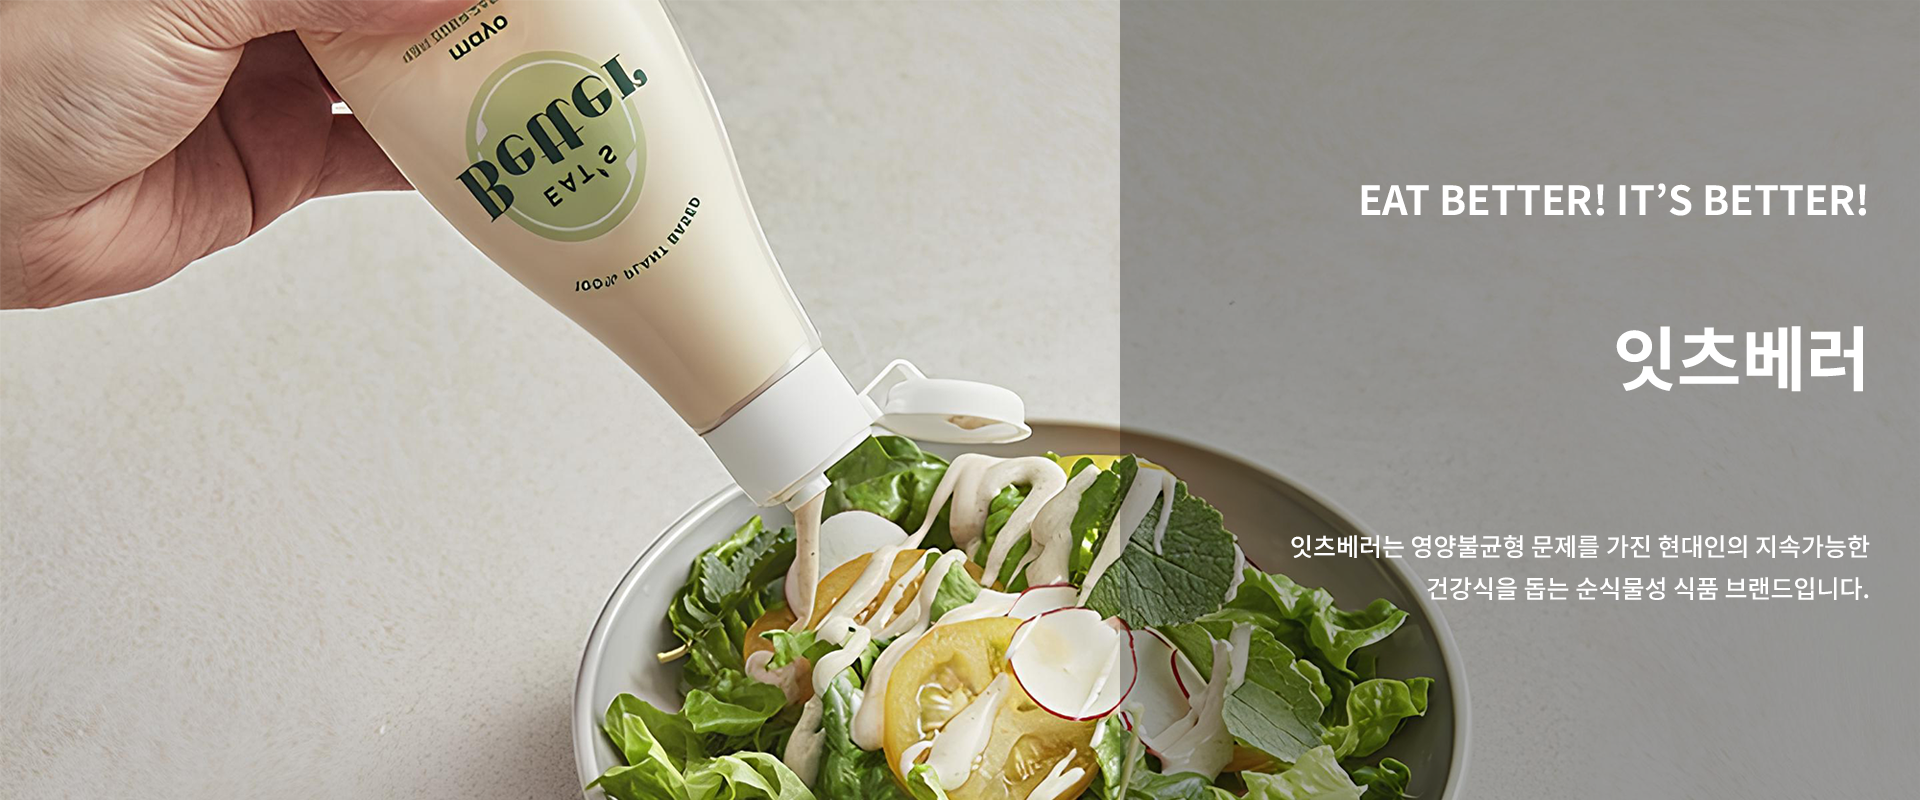
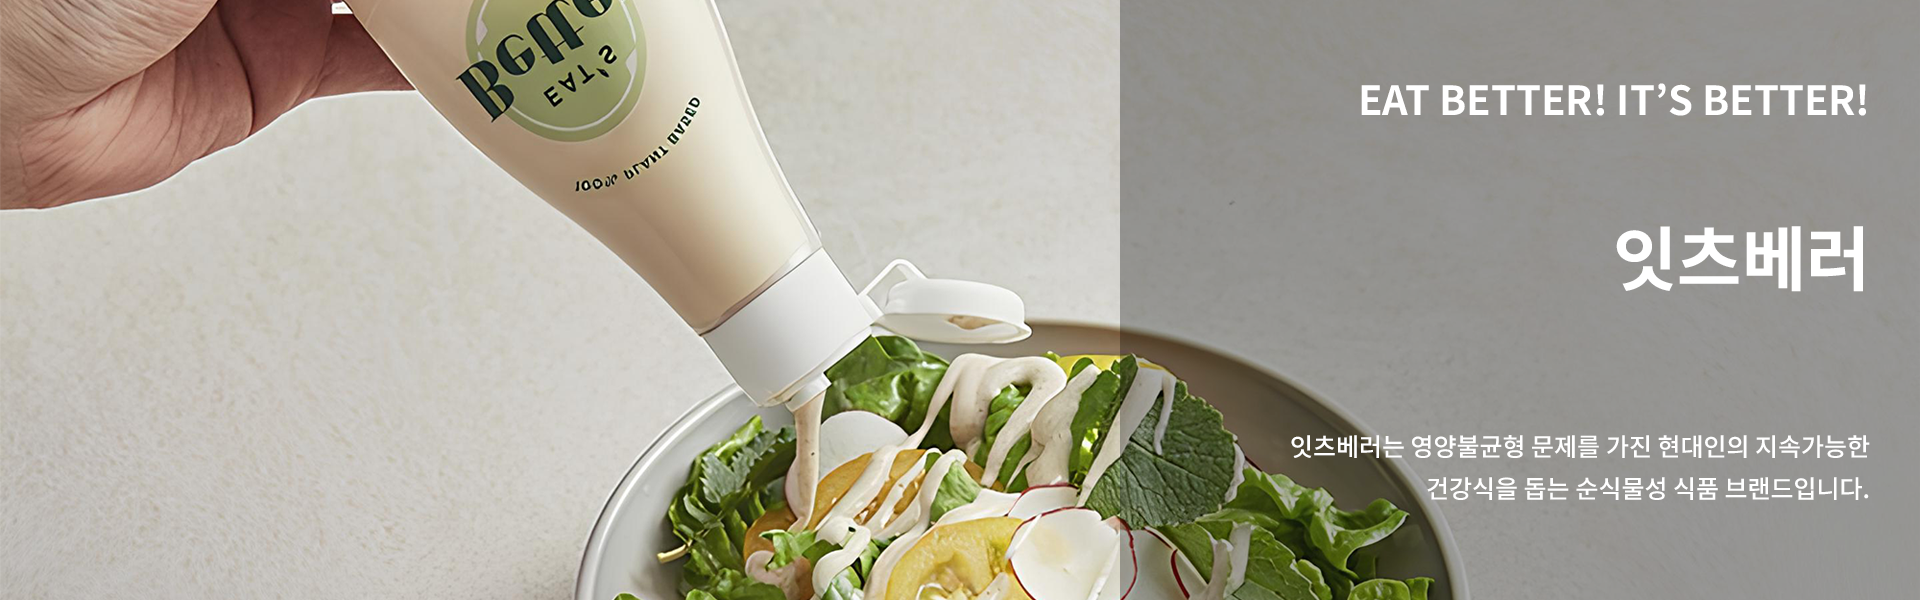
review 반응형 수정 , banner부분 추가

diff --git a/css/index/banner.css b/css/index/banner.css
@@ -1,32 +1,77 @@
 @charset "utf-8";
-.banner{
-    position: relative;
-    width: 100%;
-    /* padding-top: 110px; */
-    z-index: 1 !important;
+.banner {
+  position: relative;
+  width: 100%;
+  /* padding-top: 110px; */
+  z-index: 1 !important;
 }
-.sw-banner{
-    position: relative;
-    z-index: 1 !important;
-    width: 100%;
+.sw-banner {
+  position: relative;
+  z-index: 1 !important;
+  width: 100%;
 }
-.sw-banner a{
-    width: 100%;
-    display: block;
-    position: relative;
-    z-index: 1 !important;
+.sw-banner a {
+  width: 100%;
+  display: block;
+  position: relative;
+  z-index: 1 !important;
 }
-.sw-banner a img{
-    width: 100%;
-    display: block;
-    position: relative;
-    z-index: 1 !important;
+.sw-banner a img {
+  width: 100%;
+  display: block;
+  position: relative;
+  z-index: 1 !important;
 }
-.sw-banner .swiper-slide{
-    position: relative;
-    z-index: 1 !important;
+.sw-banner .swiper-slide {
+  position: relative;
+  z-index: 1 !important;
 }
 
-  .banner.hide{
-    margin-top: 110px;
+.banner.hide {
+  margin-top: 110px;
+}
+
+.mid-banner {
+    width: 100%;
+    aspect-ratio: 1600/484.38;
+    position: relative;
+    display: block;
+    margin-top: 50px;
+  }
+  
+  .mid-banner a {
+    width: calc((100% - 1500px) / 2 + 1500px);
+    height: 100%;
+    left: 0;
+    position: absolute;
+  
+  }
+  .mid-banner a img {
+    width: 100%;
+  }
+  .bottom-banner {
+    width: 100%;
+    aspect-ratio: 1600/484.38;
+    position: relative;
+    display: block;
+  }
+  .bottom-banner a {
+    width: calc((100% - 1500px) / 2 + 1500px);
+    height: 100%;
+    right: 0;
+    position: absolute;
+  }
+  .bottom-banner a img {
+    width: 100%;
+  }
+  @media screen and (max-width:1500px){
+  .mid-banner a , .bottom-banner a{
+    width: 100%;
+  }
+  .mid-banner , .bottom-banner{
+    aspect-ratio: 1400/437.5;
+  }
+  .mid-banner{
+    margin-top: 0;
+  }
   }

diff --git a/css/index/product.css b/css/index/product.css
@@ -1,40 +1,41 @@
 @charset "utf-8";
-.category{
-    padding-top: 50px;
+.category {
+  padding-top: 50px;
 }
-.category .inner{
-    max-width: 1100px;
+.category .inner {
+  max-width: 1100px;
 }
-.category h2{
-    text-align: center;
-    font-size: 40px;
-    font-weight: bold;
-    padding-bottom: 60px;
+.category h2 {
+  text-align: center;
+  font-size: 40px;
+  font-weight: bold;
+  padding-bottom: 60px;
 }
-.category ul{
-    display: flex;
-    justify-content: space-between;
-    padding: 0 20px;
-    flex-wrap: wrap
+.category ul {
+  display: flex;
+  justify-content: space-between;
+  padding: 0 20px;
+  flex-wrap: wrap;
 }
-.category li{
-    width: 18%;
+.category li {
+  width: 18%;
 }
-.category a{
-    width: 100%;
+.category a {
+  width: 100%;
 }
-.category img{
-    width: 100%;
-    border-radius: 50%;
+.category img {
+  width: 100%;
+  border-radius: 50%;
 }
-.category p{
-    text-align: center;
-    margin-top: 15px;
-    font-size: 20px;
-    font-weight: bold;
+.category p {
+  text-align: center;
+  margin-top: 15px;
+  font-size: 20px;
+  font-weight: bold;
 }
-@media screen and (max-width:800px){
-    .category li{
-        width: 40%
-    };
+@media screen and (max-width: 800px) {
+  .category li {
+    width: 45%;
+    padding-bottom: 25px;
+  }
 }

diff --git a/index.html b/index.html
@@ -82,9 +82,9 @@
           <li>
             <p>ABOUT US</p>
             <ul class="mobile-about-us">
-              <li><a href="#">Eats Better</a></li>
-                <li><a href="#">The Plant Eat</a></li>
-                <li><a href="#">Xilk</a></li>
+              <li><a href="eats-better.html">Eats Better</a></li>
+              <li><a href="the-plant-eat-about.html">The Plant Eat</a></li>
+              <li><a href="xilk.html">Xilk</a></li>
             </ul>
           </li>
           <li><a href="products.html">PRODUCTS</a></li>
@@ -146,6 +146,16 @@
               </div>
             </div>
           </div>
+        </div>
+      </section>
+      <section class="mid-banner" data-aos="fade-right" data-aos-offset="300" data-aos-duration="1500">
+        <!-- <div class="inner"> -->
+        <a href="#"><img src="images/banner/eatsbetter.png" alt="가운데배너" /></a>
+        <!-- </div> -->
+      </section>
+      <section class="bottom-banner" data-aos="fade-left" data-aos-offset="300" data-aos-duration="1500">
+        <div class="inner">
+          <a href="#"><img src="images/banner/theplanteat.png" alt="아랫배너" /></a>
         </div>
       </section>
       <section class="category">

diff --git a/css/index/mini_banner.css b/css/index/mini_banner.css
@@ -24,10 +24,10 @@
     margin-top: 34px;
 }
 .mini-banner1{
-    background-color: rgba(5, 103, 38, 0.25);
+    background-color: rgba(255, 100, 44, 0.25);
 }
 .mini-banner2{
-    background-color: rgba(255, 100, 44, 0.25);
+    background-color: rgba(5, 103, 38, 0.25);
 }
 .mini-banner .inner{
     position: relative;
@@ -62,4 +62,12 @@
         font-size: 30px;
     }
 
+}
+@media screen and (max-width:470px){
+    .mini-banner {
+        padding-top: 30px;
+    }
+    .mini-banner p{
+        line-height: 1.2;
+    }
 }

diff --git a/css/index/best_review.css b/css/index/best_review.css
@@ -4,6 +4,7 @@
   width: 100%;
 }
 .best-review .inner {
+  max-width: 1400px;
   padding: 0 20px;
 }
 .best-review h2 {
@@ -174,4 +175,23 @@ left: 50px;
   .review-p a{
     font-size: 13px;
   }
+}
+@media screen and (max-width:450px){
+.review-text{
+  padding: 10px 5px;
+}
+  .review-text img{
+  height: 15px;
+}
+.review-title{
+  margin-top: 10px;
+}
+.review-p{
+  margin-top: 7px;
+  margin-bottom: 10px;
+}
+.review-product a img{
+  width: 35px;
+  height: 35px;
+}
 }

diff --git a/css/index/hot-item.css b/css/index/hot-item.css
@@ -6,6 +6,7 @@
   padding-bottom: 110px;
 }
 .hot-item .inner {
+  max-width: 1400px;
   padding: 0 20px;
 }
 .hot-item h2 {
